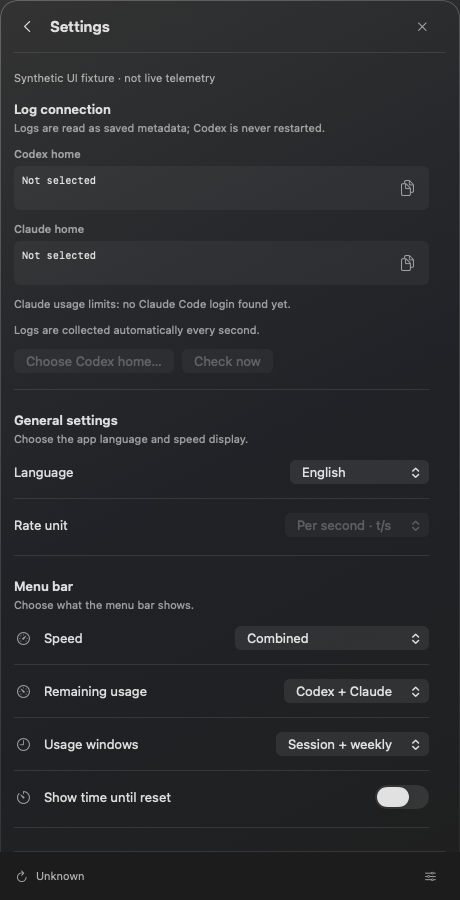
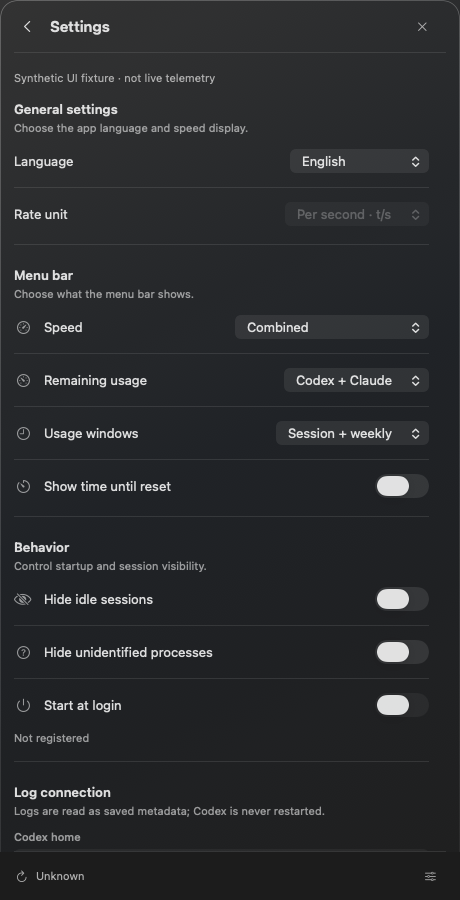
settings: move the log connection below the diagnostics

diff --git a/Sources/CodexHubApp/HubView.swift b/Sources/CodexHubApp/HubView.swift
@@ -255,16 +255,6 @@ struct HubView: View {
 
     private var preferences: some View {
         VStack(alignment: .leading, spacing: 22) {
-            settingsSection("Log connection", subtitle: "Logs are read as saved metadata; Codex is never restarted.") {
-                copyValue("Codex home", model.codexHome)
-                copyValue("Claude home", model.claudeHome)
-                connectionNote(model.quotas.contains { $0.provider == .claude } ? "Claude usage limits: a Claude Code login was found." : "Claude usage limits: no Claude Code login found yet.")
-                connectionNote("로그는 1초 간격으로 자동 수집합니다.")
-                HStack {
-                    Button(model.text("Codex 경로 선택…")) { model.chooseHome?() }.disabled(model.chooseHome == nil || model.busy)
-                    Button(model.text(model.checkingConnection ? "연결 확인 중…" : "지금 확인")) { model.refresh?() }.disabled(model.busy || model.refresh == nil)
-                }.buttonStyle(.bordered)
-            }
             settingsSection("General settings", subtitle: "Choose the app language and speed display.") {
                 settingsRow("Language") {
                 Picker(model.text("Language"), selection: $model.language) {
@@ -345,6 +335,16 @@ struct HubView: View {
                             .fixedSize(horizontal: false, vertical: true)
                     }
                 }
+            }
+            settingsSection("Log connection", subtitle: "Logs are read as saved metadata; Codex is never restarted.") {
+                copyValue("Codex home", model.codexHome)
+                copyValue("Claude home", model.claudeHome)
+                connectionNote(model.quotas.contains { $0.provider == .claude } ? "Claude usage limits: a Claude Code login was found." : "Claude usage limits: no Claude Code login found yet.")
+                connectionNote("로그는 1초 간격으로 자동 수집합니다.")
+                HStack {
+                    Button(model.text("Codex 경로 선택…")) { model.chooseHome?() }.disabled(model.chooseHome == nil || model.busy)
+                    Button(model.text(model.checkingConnection ? "연결 확인 중…" : "지금 확인")) { model.refresh?() }.disabled(model.busy || model.refresh == nil)
+                }.buttonStyle(.bordered)
             }
             settingsSection("Privacy and data", subtitle: "Manage how long collected metadata is kept.") {
                 settingsRow("Metadata retention") {

diff --git a/README.ko.md b/README.ko.md
@@ -143,7 +143,7 @@ Codex는 Codex 자체 추적 로그(`logs_2.sqlite`, 읽기 전용)에 기록된
 
 ## 설정
 
-**설정**은 맨 위의 **로그 연결**(Codex 홈 선택·복사, 즉시 확인, Claude Code 홈과 Claude Code 로그인 확인 여부, 있을 때의 수집 진단)로 시작하며, 이어서 언어, 표시 단위, 상태바 표시 항목(속도: 통합·제공자별·둘 다·숨김, 남은 사용량: Codex·Claude·둘 다·숨김, 5시간·주간·둘 다, 선택적으로 리셋까지 남은 시간), 대기 세션 숨기기, 로그인 시 실행, 메타데이터 보관 기간과 삭제, 앱 종료가 있습니다. 로그인 시 실행은 사용자가 토글할 때만 변경합니다.
+**설정**에는 언어, 표시 단위, 상태바 표시 항목(속도: 통합·제공자별·둘 다·숨김, 남은 사용량: Codex·Claude·둘 다·숨김, 5시간·주간·둘 다, 선택적으로 리셋까지 남은 시간), 대기 세션 숨기기, 로그인 시 실행, 메타데이터 보관 기간과 삭제, 앱 종료가 있습니다. 로그인 시 실행은 사용자가 토글할 때만 변경합니다. 수집 진단 아래의 **로그 연결**에는 Codex 홈 선택·복사, 즉시 확인, Claude Code 홈과 Claude Code 로그인 확인 여부, 있을 때의 수집 진단가 있습니다.
 
 경로는 각각의 복사 버튼으로 복사합니다.
 

diff --git a/README.md b/README.md
@@ -141,7 +141,7 @@ Clearing collected metadata also clears chart history. Original Codex logs remai
 
 ## Settings
 
-**Settings** starts with **Log connection** (Codex home selection and copying, an immediate check, the Claude Code home with whether a Claude Code login was found, and collection diagnostics when there are any), then provides language, display unit, what the menu bar shows (speed: combined, by provider, both or hidden; remaining usage: Codex, Claude, both or hidden; the 5-hour window, the weekly window or both; optionally the time until reset), hide-idle behavior, start at login, metadata retention/deletion, and quit. Login startup changes only when the user toggles it.
+**Settings** provides language, display unit, what the menu bar shows (speed: combined, by provider, both or hidden; remaining usage: Codex, Claude, both or hidden; the 5-hour window, the weekly window or both; optionally the time until reset), hide-idle behavior, start at login, metadata retention/deletion, and quit. Login startup changes only when the user toggles it. **Log connection**, below the diagnostics, holds the Codex home selection and copying, an immediate check, the Claude Code home with whether a Claude Code login was found, and collection diagnostics when there are any.
 
 Paths have individual copy buttons.
 
